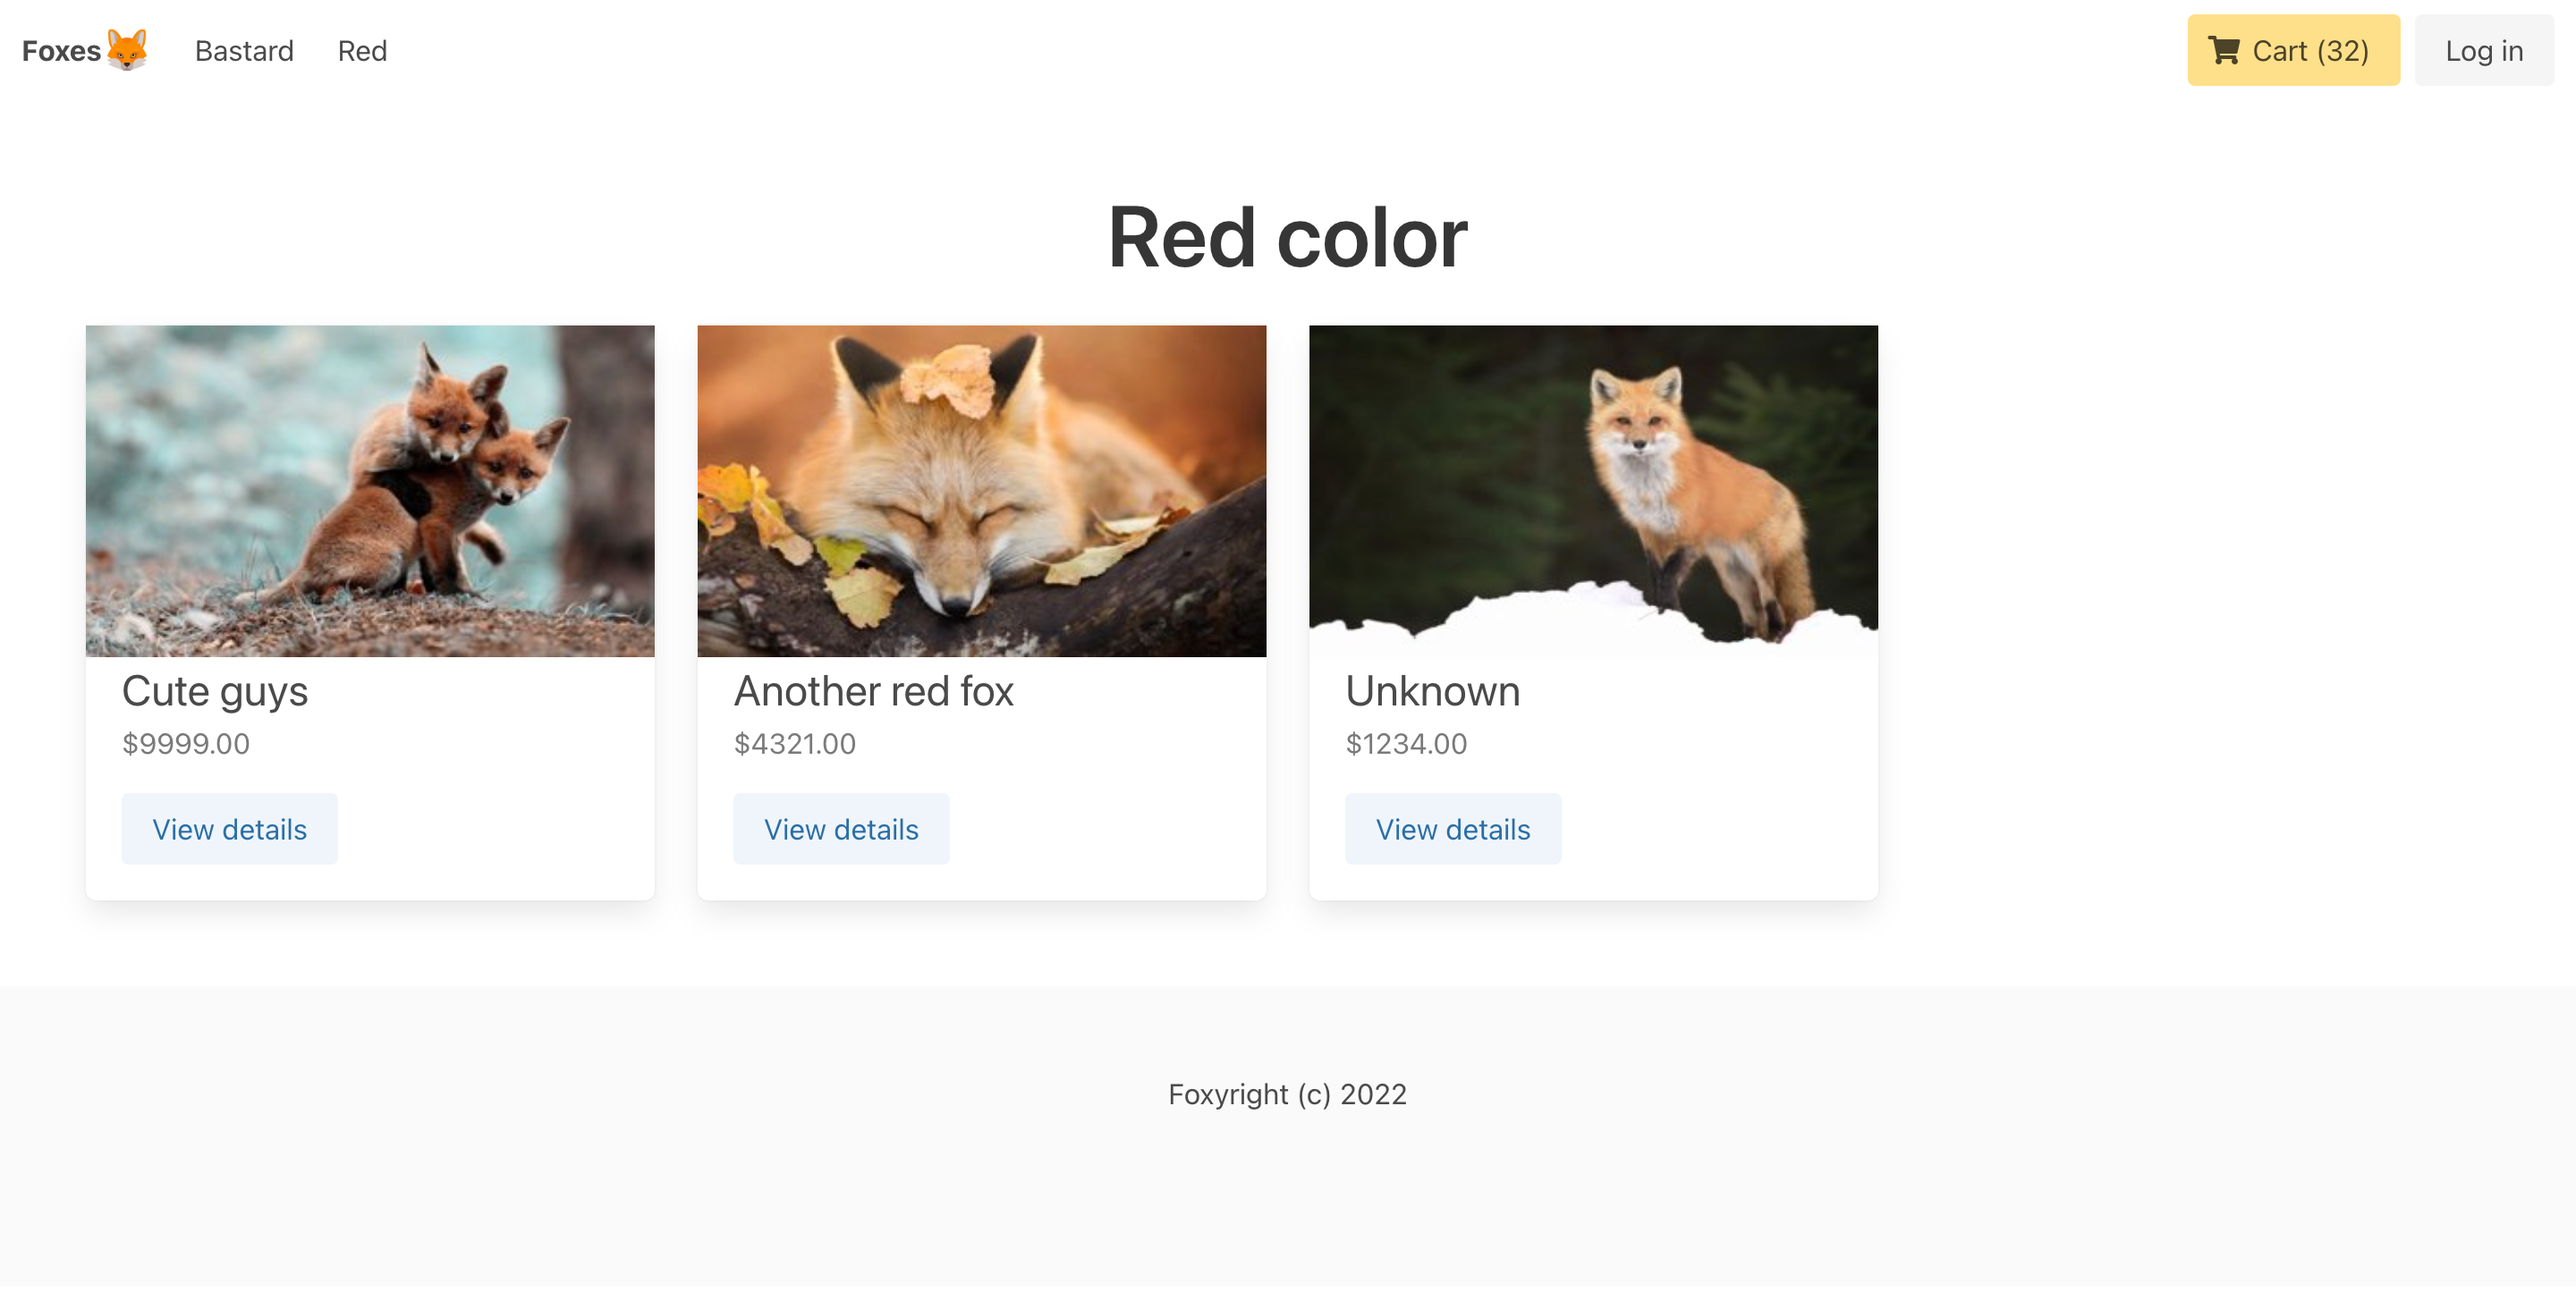
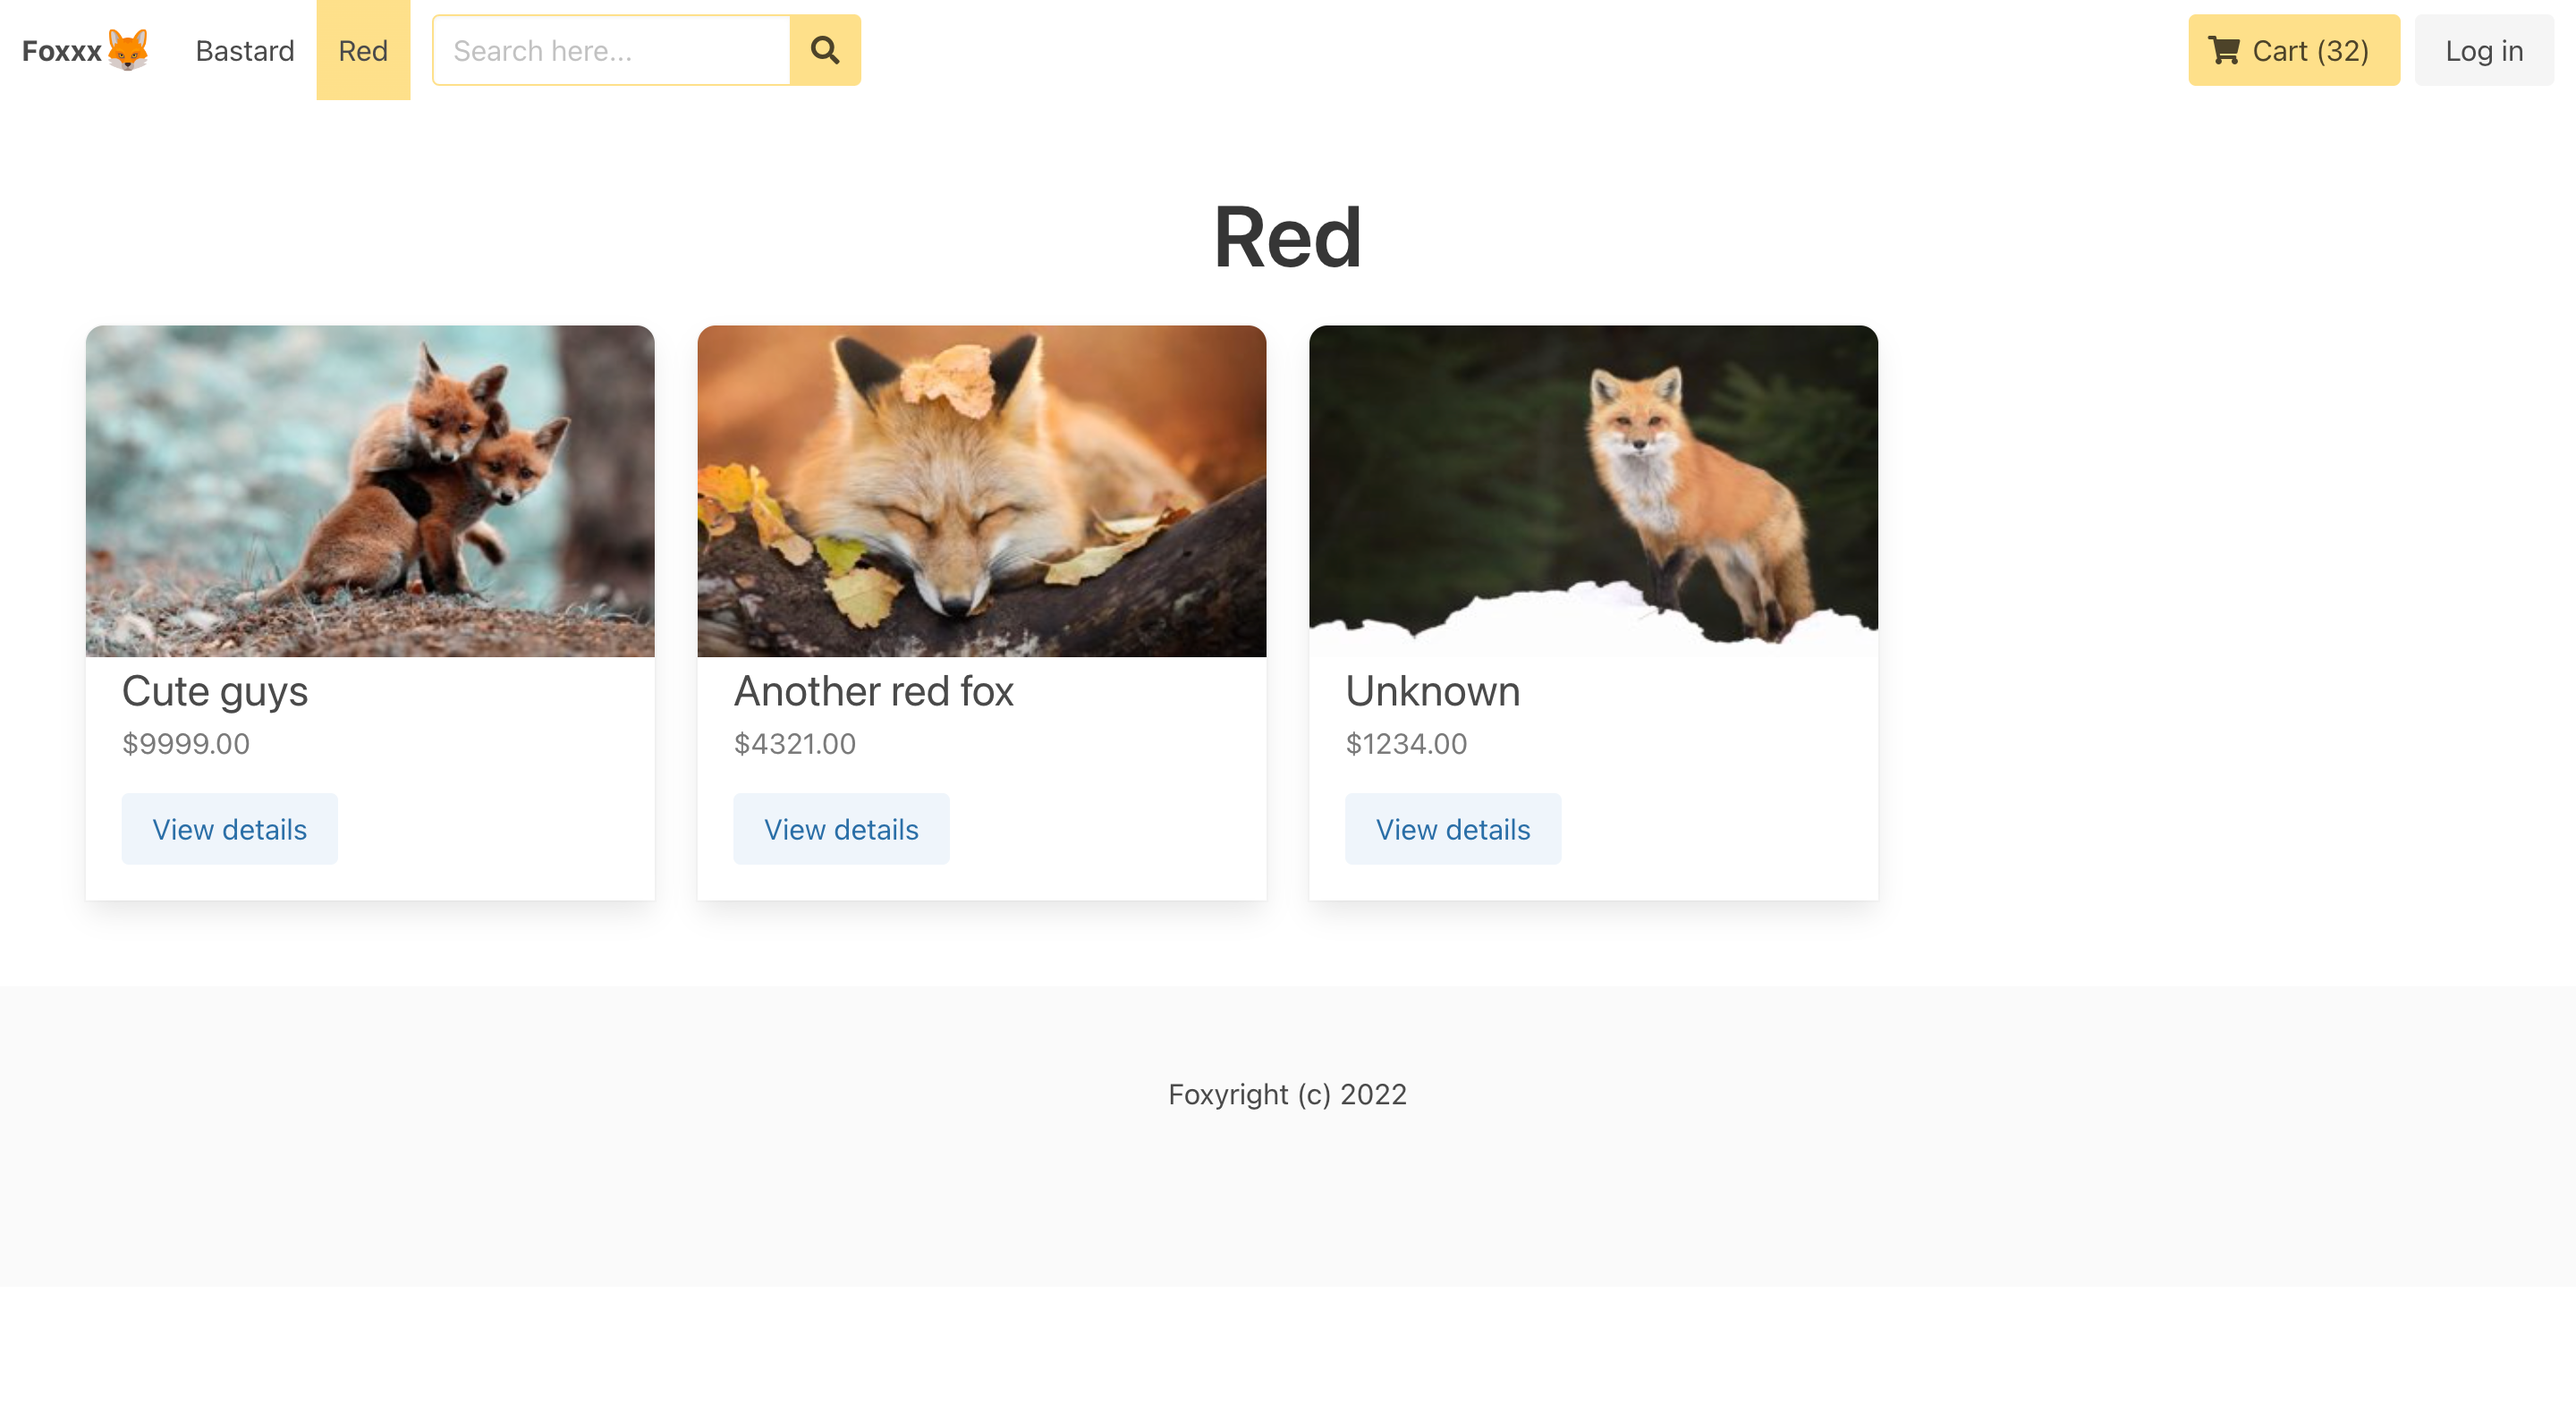
search

diff --git a/fox_vue/src/router/index.js b/fox_vue/src/router/index.js
@@ -1,38 +1,46 @@
-import { createRouter, createWebHistory } from 'vue-router'
+import {createRouter, createWebHistory} from 'vue-router'
+
 import HomeView from '../views/HomeView.vue'
+
 import ProductView from "@/views/ProductView"
 import CategoryView from "@/views/CategoryView";
+import SearchView from "@/views/SearchView";
 
 
 const routes = [
-  {
-    path: '/',
-    name: 'home',
-    component: HomeView
-  },
-  {
-    path: '/about',
-    name: 'about',
-    // route level code-splitting
-    // this generates a separate chunk (about.[hash].js) for this route
-    // which is lazy-loaded when the route is visited.
-    component: () => import(/* webpackChunkName: "about" */ '../views/AboutView.vue')
-  },
-  {
-    path: '/:category_slug/:product_slug',
-    name: 'product',
-    component: ProductView
-  },
-  {
-    path: '/:category_slug',
-    name: 'category',
-    component: CategoryView
-  }
+    {
+        path: '/',
+        name: 'home',
+        component: HomeView
+    },
+    {
+        path: '/about',
+        name: 'about',
+        // route level code-splitting
+        // this generates a separate chunk (about.[hash].js) for this route
+        // which is lazy-loaded when the route is visited.
+        component: () => import(/* webpackChunkName: "about" */ '../views/AboutView.vue')
+    },
+    {
+        path: '/search',
+        name: 'Search',
+        component: SearchView
+    },
+    {
+        path: '/:category_slug/:product_slug',
+        name: 'product',
+        component: ProductView
+    },
+    {
+        path: '/:category_slug',
+        name: 'category',
+        component: CategoryView
+    }
 ]
 
 const router = createRouter({
-  history: createWebHistory(process.env.BASE_URL),
-  routes
+    history: createWebHistory(process.env.BASE_URL),
+    routes
 })
 
 export default router

diff --git a/fox_vue/src/views/SearchView.vue b/fox_vue/src/views/SearchView.vue
@@ -1,0 +1,68 @@
+<template>
+  <div class="page-search">
+    <div class="colums is-multiline">
+      <div class="column is-12">
+        <h1 class="title">Search</h1>
+
+        <h2 class="is-size-5 has-text-grey">Search term:  «{{ query }}»</h2>
+      </div>
+      <ProductBox
+          v-for="product in products"
+          v-bind:key="product.id"
+          v-bind:product="product"
+      >
+      </ProductBox>
+    </div>
+  </div>
+</template>
+
+<script>
+import axios from "axios";
+import ProductBox from "@/components/ProductBox";
+
+export default {
+  name: "Search",
+
+  components: {
+    ProductBox
+  },
+
+  data() {
+    return {
+      products: [],
+      query: '',
+    }
+  },
+
+  mounted() {
+    document.title = "Search | Foxes"
+
+    let uri = window.location.search.substring(1)
+    let params = new URLSearchParams(uri)
+
+    if (params.get('query')) {
+      this.query = params.get('query')
+
+      this.performSearch()
+    }
+  },
+  methods: {
+    async performSearch() {
+      this.$store.commit('setIsLoading', true)
+
+      await axios
+          .post('/api/v1/products/search/', {'query': this.query})
+          .then(response => {
+            this.products = response.data
+          })
+          .catch(error => {
+            console.log(error)
+          })
+
+      this.$store.commit('setIsLoading', false)
+
+    }
+  }
+
+}
+</script>

diff --git a/fox_vue/src/views/CategoryView.vue b/fox_vue/src/views/CategoryView.vue
@@ -2,7 +2,7 @@
   <div class="page-category">
     <div class="columns is-multiline">
       <div class="column is-12">
-        <h1 class="title is-1 has-text-centered"> {{ category.name }} color</h1>
+        <h1 class="title is-1 has-text-centered"> {{ category.name }}</h1>
       </div>
 
       <ProductBox
@@ -26,6 +26,7 @@ export default {
   components: {
     ProductBox
   },
+
   data() {
     return {
       category: {
@@ -77,7 +78,6 @@ export default {
           })
 
       this.$store.commit('setIsLoading', false)
-
     }
   }
 }

diff --git a/README.md b/README.md
@@ -29,5 +29,6 @@
 <img src="./readme_resources/home.png"/>
 <img src="./readme_resources/product.png"/>
 <img src="./readme_resources/category.png"/>
+<img src="./readme_resources/search.png"/>
 
 
